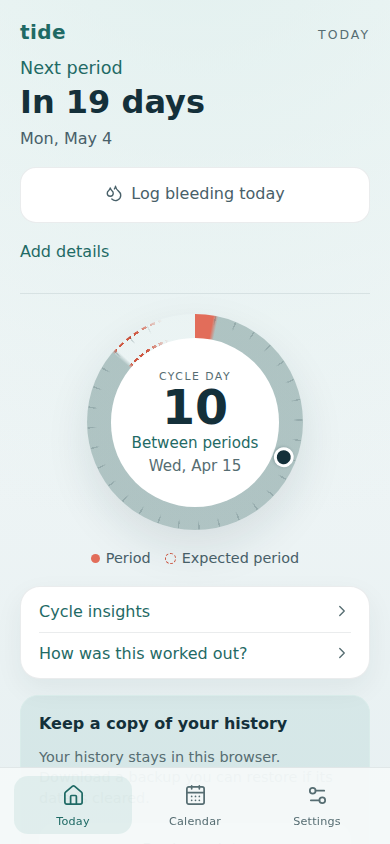
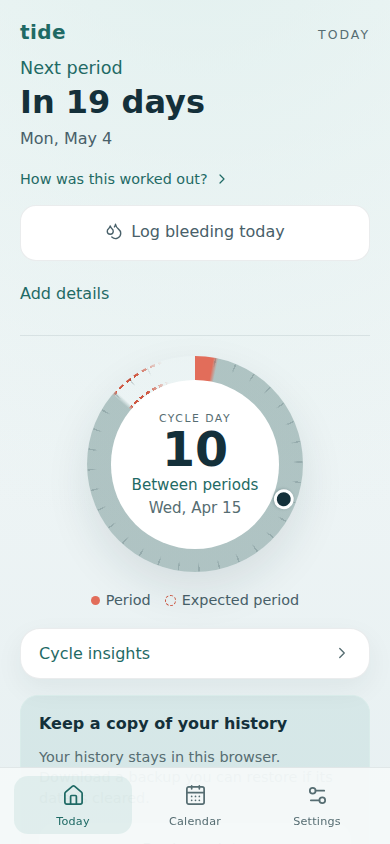
feat(today): fold a logged day into one line and lift the sums link
- A fresh log opens on the flow row and Remove; a later visit shows one
  "Logged today · Medium" button ending in "Add flow" or "Change", which
  opens them again. It folds on the next visit, never on a timer, so
  nothing moves under a finger or a screen reader
- "How was this worked out?" moves from the bottom fact list to a text
  action under the estimate it explains
- "Add details" sits 4px lower so its 44px target no longer overlaps the
  one of "Not yet — remind me later"
- The reload e2e test logs from a known state and checks the folded line,
  instead of branching on what it found

A timed Undo was considered and left out: the open row after a log already
holds Remove, and a control that vanishes on a timer needs a way to extend
it (WCAG 2.2.1).

diff --git a/src/features/log/LogAction.tsx b/src/features/log/LogAction.tsx
@@ -1,4 +1,4 @@
-import { DropletOff, Droplets } from "lucide-react";
+import { ChevronDown, DropletOff, Droplets } from "lucide-react";
 import { useEffect, useRef, useState } from "react";
 import type { FlowIntensity, LoggedFlow } from "../../domain/types";
 import { useT } from "../../state/provider";
@@ -74,19 +74,37 @@ interface LoggedTodayProps {
   justLogged: boolean;
 }
 
-// Logged: one line that confirms, with the undo beside it, and the optional
-// flow as a single row of swatches. Nothing here asks for another step.
+// Logged: a fresh log opens on the optional flow row with its undo; on a
+// later visit the block is one line that opens them again. No timer: nothing
+// moves while a finger or screen reader is on it.
 function LoggedToday({ intensity, onRemove, onSelectIntensity, justLogged }: LoggedTodayProps) {
   const t = useT();
-  // The parent's flag lasts one render; keep it so the one-time moment can finish.
-  const [pop] = useState(justLogged);
+  // How the row came to be open. The parent's flag lasts one render; this
+  // keeps it so the one-time moment can finish.
+  const [open, setOpen] = useState<"fresh" | "tapped" | null>(justLogged ? "fresh" : null);
+  const summary = intensity ? t("log.loggedWith", { flow: t(`flow.${intensity}`) }) : t("log.logged");
+
+  if (!open) {
+    return (
+      <div className="log-action log-action--logged">
+        <button type="button" className="log-action__summary" aria-expanded={false} onClick={() => setOpen("tapped")}>
+          <AppIcon icon={Droplets} className="log-action__status-icon" />
+          <span>{summary}</span>
+          <span className="log-action__hint">
+            {t(intensity ? "log.changeFlow" : "log.addFlow")}
+            <AppIcon icon={ChevronDown} className="text-action__icon" />
+          </span>
+        </button>
+      </div>
+    );
+  }
 
   return (
-    <div className="log-action log-action--logged" data-just-logged={pop || undefined}>
+    <div className="log-action log-action--logged" data-just-logged={open === "fresh" || undefined}>
       <div className="log-action__row">
         <p className="log-action__status" role="status">
           <AppIcon icon={Droplets} className="log-action__status-icon" />
-          <span>{intensity ? t("log.loggedWith", { flow: t(`flow.${intensity}`) }) : t("log.logged")}</span>
+          <span>{summary}</span>
         </p>
         <button type="button" className="text-action log-action__remove" onClick={onRemove}>
           <AppIcon icon={DropletOff} className="text-action__icon" />
@@ -94,7 +112,13 @@ function LoggedToday({ intensity, onRemove, onSelectIntensity, justLogged }: Log
         </button>
       </div>
       {onSelectIntensity ? (
-        <FlowGauge selected={intensity} onSelect={onSelectIntensity} autoFocus={justLogged} hideLegend />
+        // Opened from the summary line, which unmounts: focus continues here.
+        <FlowGauge
+          selected={intensity}
+          onSelect={onSelectIntensity}
+          autoFocus={justLogged || open === "tapped"}
+          hideLegend
+        />
       ) : null}
     </div>
   );

diff --git a/tests/e2e/app.spec.ts b/tests/e2e/app.spec.ts
@@ -28,24 +28,15 @@ test("app shell loads and primary navigation works", async ({ page }) => {
 test("logging today persists across reload", async ({ page }) => {
   await page.goto("/");
 
-  const actionButton = page.getByRole("button", {
-    name: /log bleeding today|remove bleeding log/i,
-  });
-  await expect(actionButton).toBeVisible();
+  await page.getByRole("button", { name: /log bleeding today/i }).click();
+  await expect(page.getByRole("button", { name: /remove bleeding log/i })).toBeVisible();
 
-  const startedLogged = await page
-    .getByRole("button", { name: /remove bleeding log/i })
-    .isVisible()
-    .catch(() => false);
-  await actionButton.click();
-
-  const expectedActionLabel = startedLogged ? /log bleeding today/i : /remove bleeding log/i;
-
-  await expect(page.getByRole("button", { name: expectedActionLabel })).toBeVisible();
-
+  // A later visit folds the log into its one line, which opens Remove again.
   await page.reload();
-
-  await expect(page.getByRole("button", { name: expectedActionLabel })).toBeVisible();
+  const summary = page.getByRole("button", { name: /logged today/i });
+  await expect(summary).toHaveAttribute("aria-expanded", "false");
+  await summary.click();
+  await expect(page.getByRole("button", { name: /remove bleeding log/i })).toBeVisible();
 });
 
 test("deep links reload correctly for the static app paths", async ({ page }) => {

diff --git a/src/features/today/TodayScreen.tsx b/src/features/today/TodayScreen.tsx
@@ -125,6 +125,12 @@ export function TodayScreen(props: TodayScreenProps) {
         {forecast.estimateMode !== "insufficient" && learningNote ? (
           <p className="today-screen__note">{learningNote}</p>
         ) : null}
+        {explanation ? (
+          <button type="button" className="text-action today-forecast__how" onClick={openExplainer}>
+            {t("today.howWorkedOut")}
+            <AppIcon icon={ChevronRight} className="text-action__icon" />
+          </button>
+        ) : null}
         {reminderState.shouldPrompt ? (
           <ReminderPrompt
             isOverdue={reminderState.isOverdue}
@@ -200,12 +206,6 @@ export function TodayScreen(props: TodayScreenProps) {
           {t("today.cycleInsights")}
           <AppIcon icon={ChevronRight} className="fact-list__more-icon" />
         </button>
-        {explanation ? (
-          <button type="button" className="fact-list__more" onClick={openExplainer}>
-            {t("today.howWorkedOut")}
-            <AppIcon icon={ChevronRight} className="fact-list__more-icon" />
-          </button>
-        ) : null}
       </div>
 
       {askFertility ? (

diff --git a/tests/ui/today-screen.test.tsx b/tests/ui/today-screen.test.tsx
@@ -371,6 +371,21 @@ describe("TodayScreen", () => {
     expect(screen.getByRole("status")).toHaveTextContent(/^logged today$/i);
   });
 
+  it("folds a log from an earlier visit into one line that opens flow and Remove", async () => {
+    const user = userEvent.setup();
+    renderToday("2026-04-18", createAppState({ periodDays: ["2026-04-18"] }));
+
+    // Flow and Remove wait behind the one line, which offers to change the level.
+    const summary = screen.getByRole("button", { name: /logged today · medium.*change/i });
+    expect(summary).toHaveAttribute("aria-expanded", "false");
+    expect(screen.queryByRole("radio")).not.toBeInTheDocument();
+    expect(screen.queryByRole("button", { name: /remove bleeding log/i })).not.toBeInTheDocument();
+
+    await user.click(summary);
+    expect(screen.getByRole("radio", { name: /medium/i })).toHaveFocus();
+    expect(screen.getByRole("button", { name: /remove bleeding log/i })).toBeInTheDocument();
+  });
+
   it("moves focus to the gauge after a log and back to Log after a remove", async () => {
     const user = userEvent.setup();
     renderToday("2026-04-18");

diff --git a/src/styles/ui.css b/src/styles/ui.css
@@ -558,6 +558,43 @@
     font-weight: 500;
   }
 
+  /* A later visit: the whole logged line is one button that opens the flow
+     row and Remove again. The hint on the right is the nudge to add a level. */
+  .log-action__summary {
+    display: flex;
+    flex-wrap: wrap;
+    align-items: center;
+    gap: 4px 8px;
+    min-height: 44px;
+    padding: 0;
+    border: 0;
+    background: transparent;
+    color: var(--ink);
+    font-size: var(--text-lg);
+    font-weight: 500;
+    text-align: start;
+  }
+
+  .log-action__hint {
+    display: inline-flex;
+    align-items: center;
+    gap: 4px;
+    margin-inline-start: auto;
+    color: var(--tide-strong);
+    font-size: var(--text-md);
+    transition: color 160ms ease;
+  }
+
+  .log-action__summary:hover .log-action__hint {
+    color: var(--tide);
+  }
+
+  .log-action__summary:focus-visible {
+    outline: 2px solid var(--tide);
+    outline-offset: 2px;
+    border-radius: var(--radius-control);
+  }
+
   .log-action__status-icon {
     width: 18px;
     height: 18px;

diff --git a/src/styles/screens.css b/src/styles/screens.css
@@ -57,8 +57,17 @@
 
   /* The diary trigger belongs to the log block above it: pulled up into that
      group, with a full touch target. */
+  /* -6px, not more: the 44px boxes of "Not yet" and this trigger must not overlap. */
   .today-screen__lead .daily-details {
-    margin-top: -10px;
+    margin-top: -6px;
+  }
+
+  /* The way into the sums sits under the number it explains. */
+  .today-forecast__how {
+    justify-self: start;
+    min-height: 44px;
+    margin-block: -10px -12px;
+    font-size: var(--text-md);
   }
 
   .today-screen__lead .daily-details__trigger {

diff --git a/tests/e2e/a11y.spec.ts b/tests/e2e/a11y.spec.ts
@@ -45,7 +45,7 @@ for (const colorScheme of ["light", "dark"] as const) {
     test("the forecast explainer has no WCAG A or AA or best-practice violations", async ({ page }) => {
       await seedAppState(page);
       await page.goto("/");
-      await page.locator(".fact-list__more").nth(1).click();
+      await page.locator(".today-forecast__how").click();
       await expect(page.getByRole("dialog")).toBeVisible();
 
       await expectNoViolations(page);

diff --git a/src/i18n/fr.ts b/src/i18n/fr.ts
@@ -164,6 +164,8 @@ export const fr: Dictionary = {
   "log.remove": "Supprimer le saignement",
   "log.logged": "Enregistré aujourd’hui",
   "log.loggedWith": "Enregistré aujourd’hui · {flow}",
+  "log.addFlow": "Préciser le flux",
+  "log.changeFlow": "Modifier",
   "log.add": "Enregistrer le saignement du jour",
   "reminder.question": "Tes règles ont-elles commencé ?",
   "reminder.dismiss": "Pas encore — me le rappeler plus tard",

diff --git a/src/i18n/es.ts b/src/i18n/es.ts
@@ -162,6 +162,8 @@ export const es: Dictionary = {
   "log.remove": "Eliminar registro de sangrado",
   "log.logged": "Registrado hoy",
   "log.loggedWith": "Registrado hoy · {flow}",
+  "log.addFlow": "Indicar flujo",
+  "log.changeFlow": "Cambiar",
   "log.add": "Registrar sangrado de hoy",
   "reminder.question": "¿Ha comenzado tu período?",
   "reminder.dismiss": "Todavía no — recordármelo más tarde",

diff --git a/src/i18n/de.ts b/src/i18n/de.ts
@@ -164,6 +164,8 @@ export const de: Dictionary = {
   "log.remove": "Blutungseintrag entfernen",
   "log.logged": "Heute protokolliert",
   "log.loggedWith": "Heute protokolliert · {flow}",
+  "log.addFlow": "Stärke wählen",
+  "log.changeFlow": "Ändern",
   "log.add": "Blutung heute erfassen",
   "reminder.question": "Hat deine Periode angefangen?",
   "reminder.dismiss": "Noch nicht — später erinnern",

diff --git a/src/i18n/nl.ts b/src/i18n/nl.ts
@@ -164,6 +164,8 @@ export const nl: Dictionary = {
   "log.remove": "Bloedverlies verwijderen",
   "log.logged": "Vandaag gelogd",
   "log.loggedWith": "Vandaag gelogd · {flow}",
+  "log.addFlow": "Hoeveelheid kiezen",
+  "log.changeFlow": "Wijzigen",
   "log.add": "Bloedverlies registreren",
   "reminder.question": "Is je menstruatie begonnen?",
   "reminder.dismiss": "Nog niet — herinner me later",

diff --git a/src/i18n/en.ts b/src/i18n/en.ts
@@ -166,6 +166,8 @@ export const en = {
   "log.remove": "Remove bleeding log",
   "log.logged": "Logged today",
   "log.loggedWith": "Logged today · {flow}",
+  "log.addFlow": "Add flow",
+  "log.changeFlow": "Change",
   "log.add": "Log bleeding today",
   "reminder.question": "Has your period started?",
   "reminder.dismiss": "Not yet — remind me later",
